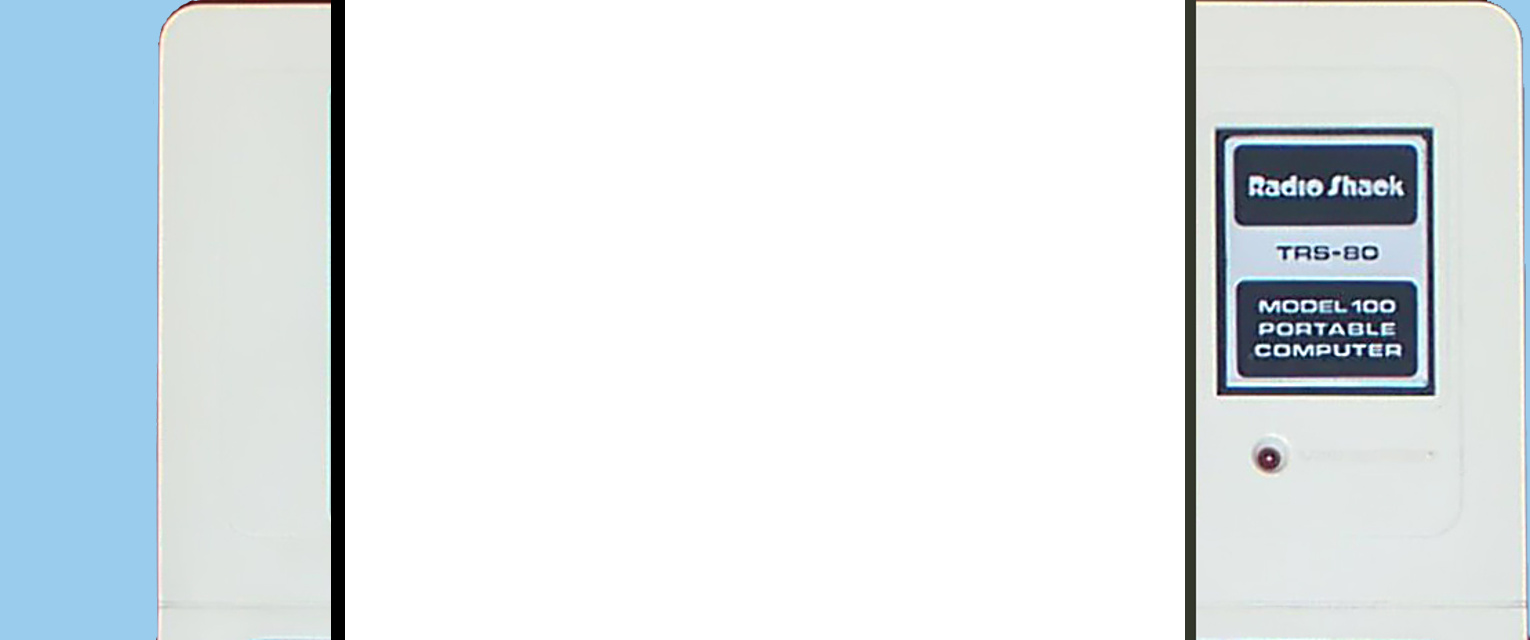
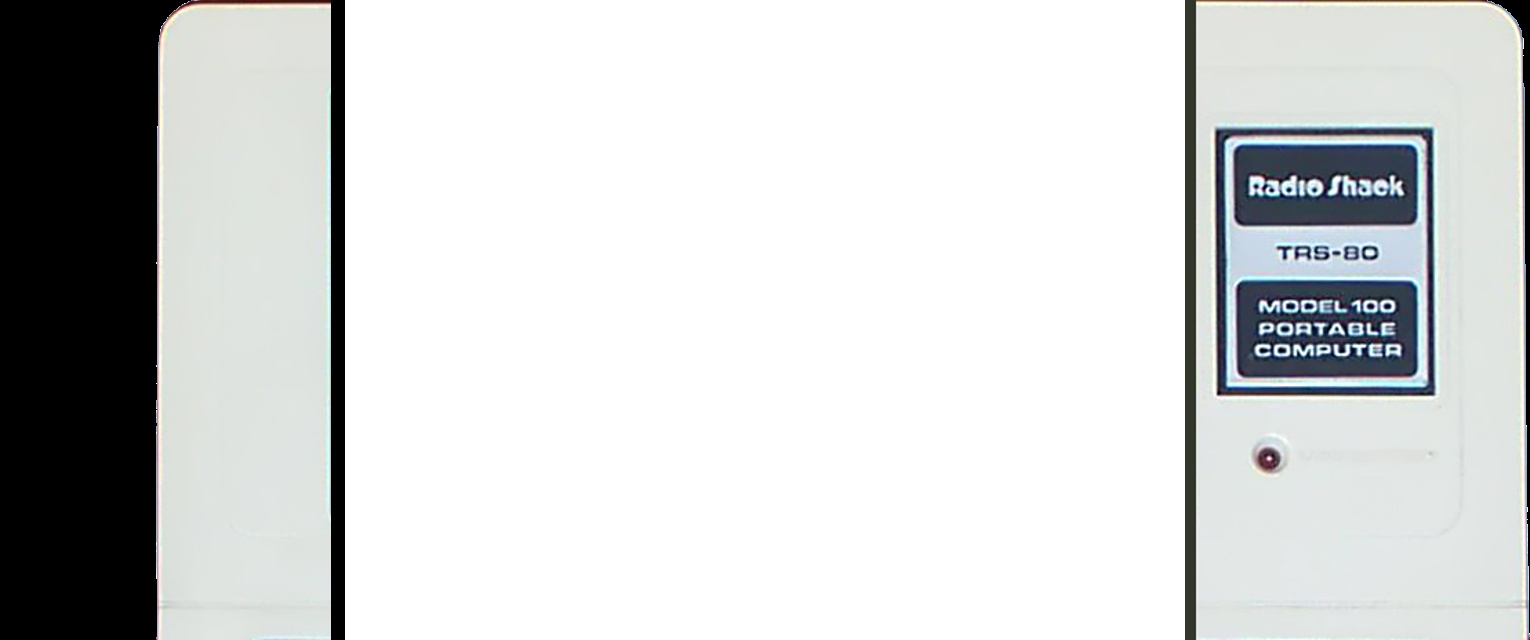
Fix up some background stuff

Changed region(s): [[0.0, 0.0, 0.1229, 1.0], [0.983, 0.0, 1.0, 0.875]]

diff --git a/web/index.html b/web/index.html
@@ -11,7 +11,9 @@
   <body>
     <center>
       <div>
-        <h1>Game Title</h1>
+        <div id="logo">
+            <img src="theme/logo.png" />
+        </div>
         <div id="canvasborder">
           <canvas id="canvas" oncontextmenu="event.preventDefault()"></canvas>
         </div>
@@ -82,6 +84,7 @@
           if (text) Module.printErr('[post-exception status] ' + text);
         };
       };
+      window.onclick = function(){window.focus()};
     </script>
     <script type="text/javascript" src="game.js"></script>
     <script async type="text/javascript" src="love.js"></script>

diff --git a/web/theme/love.css b/web/theme/love.css
@@ -8,12 +8,10 @@ h1 {
 }
 
 body {
-    background-image: url(bg.png);
-    background-repeat: no-repeat;
     font-family: arial;
     margin: 0;
     padding: none;
-    background-color: rgb( 154, 205, 237 );
+    background-color: black;
     color: rgb( 28, 78, 104 );
 }
 
@@ -49,5 +47,11 @@ a:hover {
 
 #canvasborder {
   width: 1530px;
+  margin-top: 15px;
   background: url(model_100.jpg) top right no-repeat;
+}
+
+div#logo {
+    margin-right: auto;
+    background-color: white;
 }
